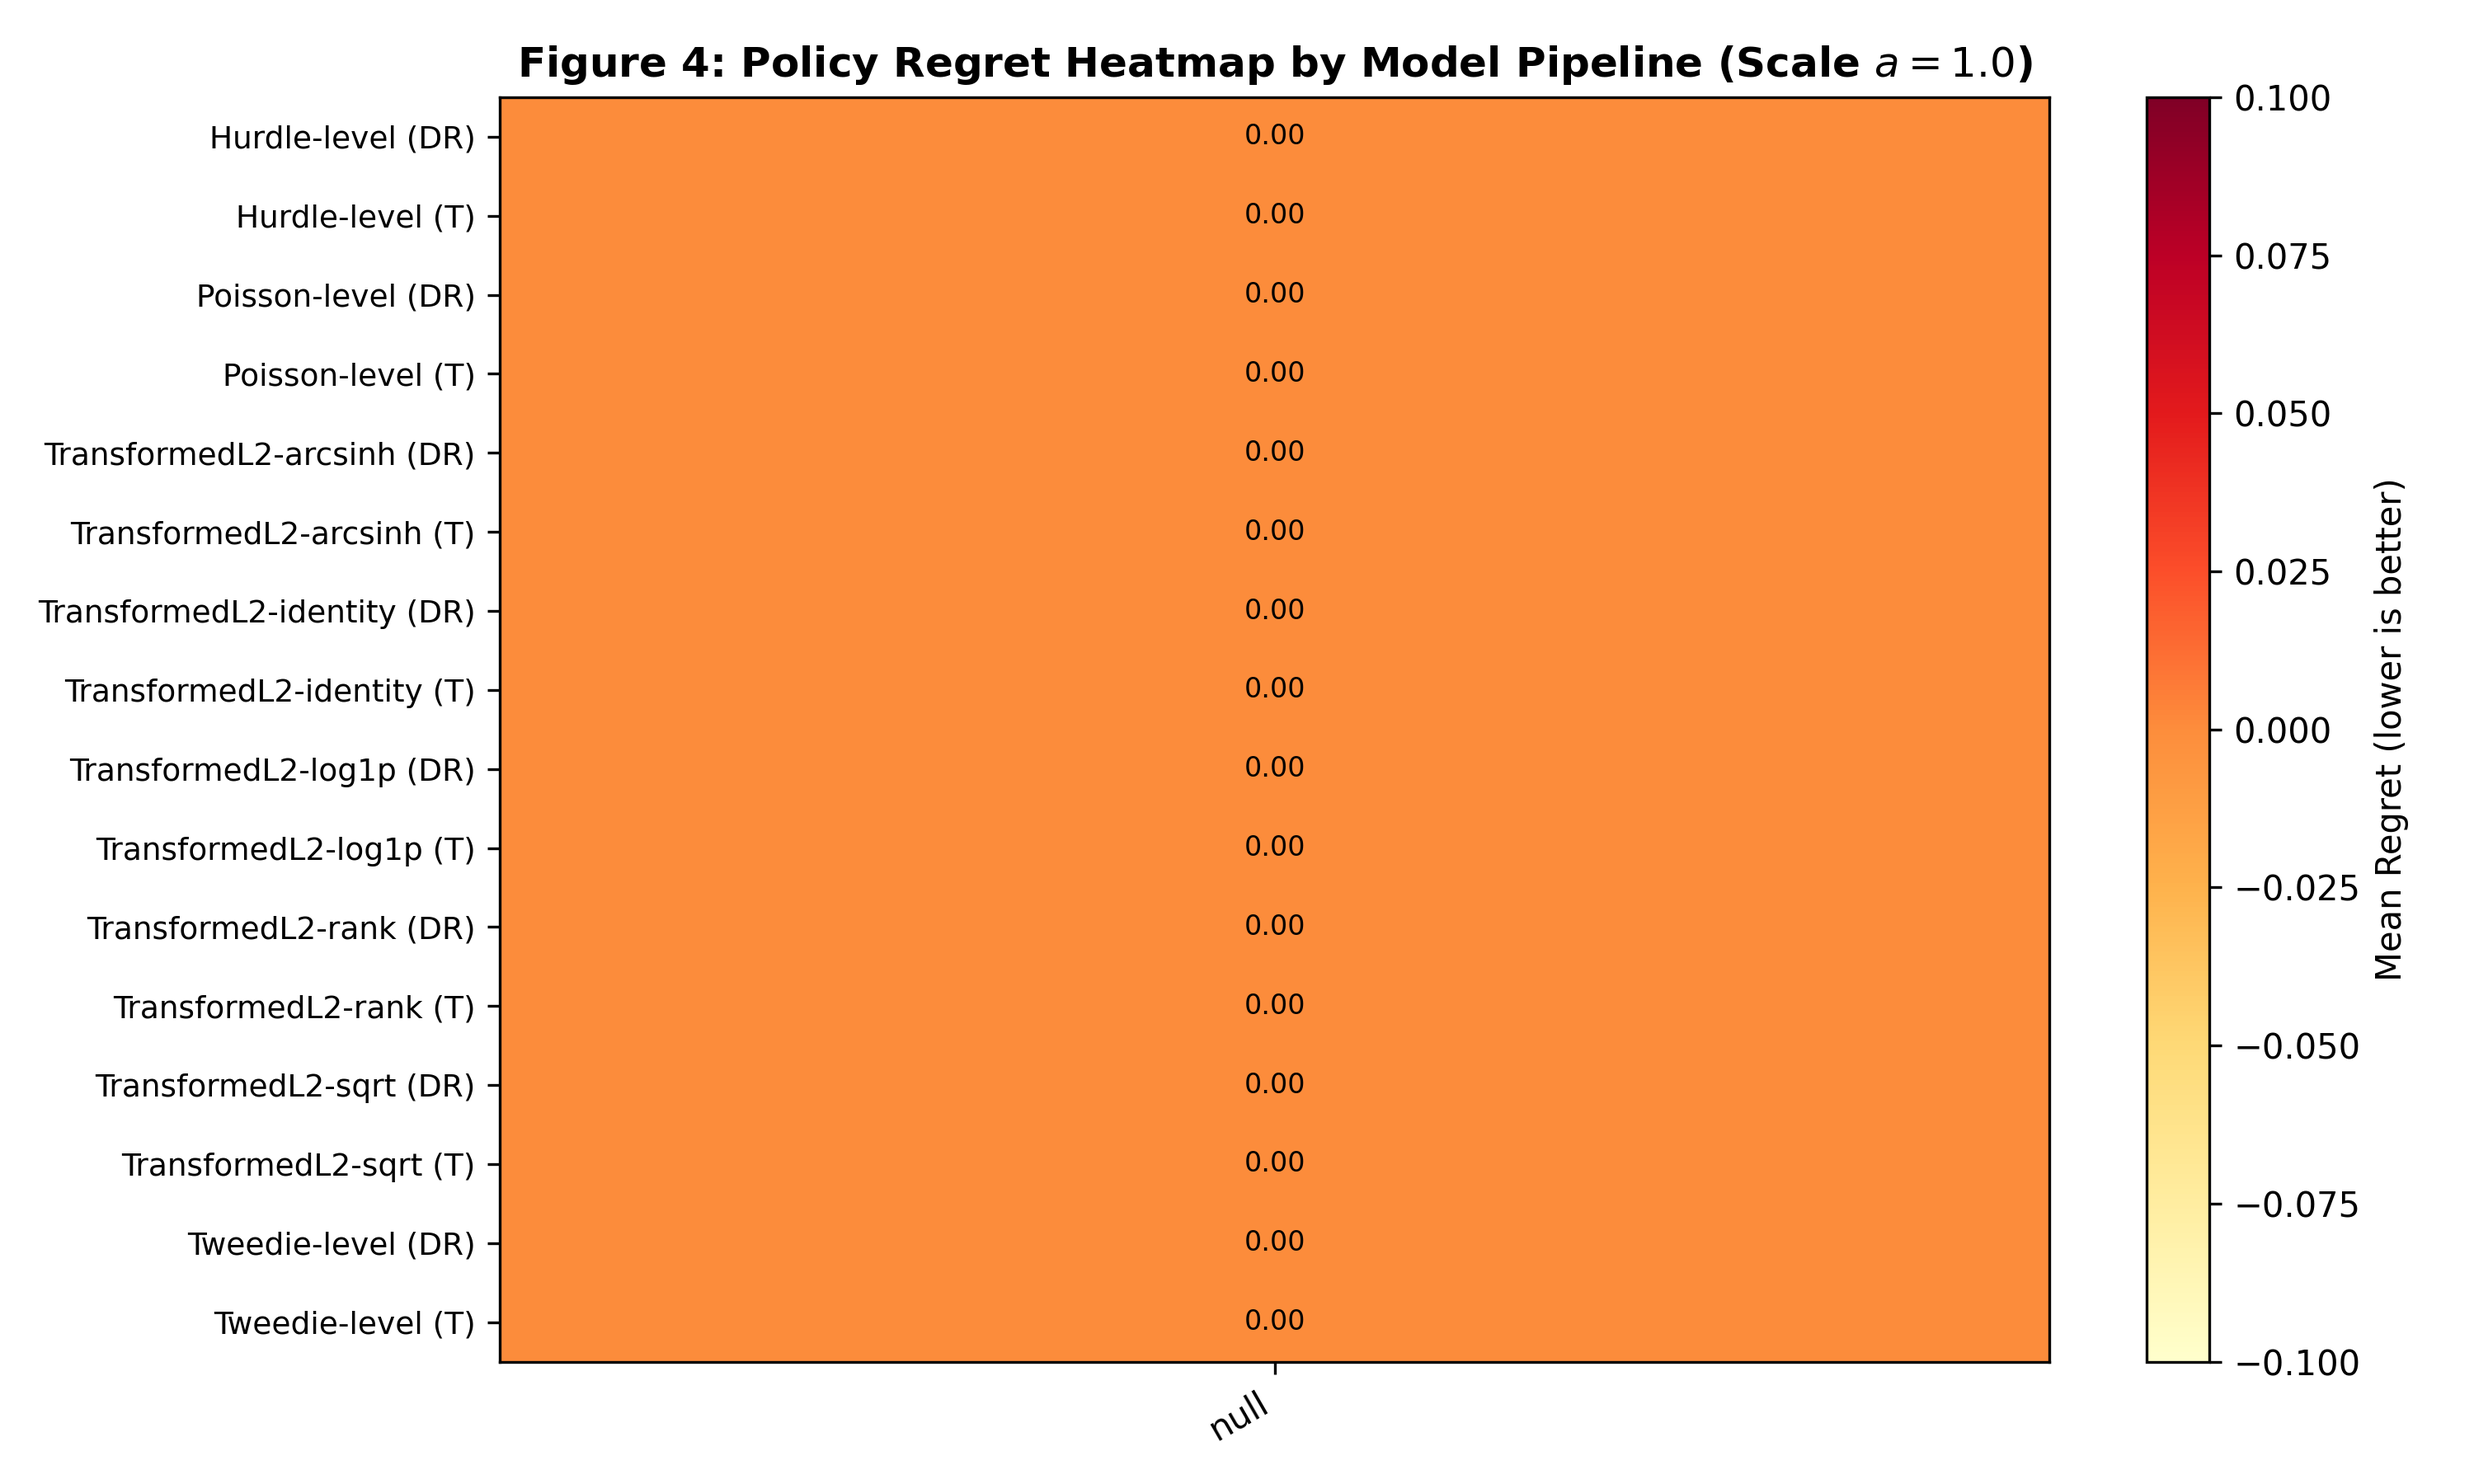
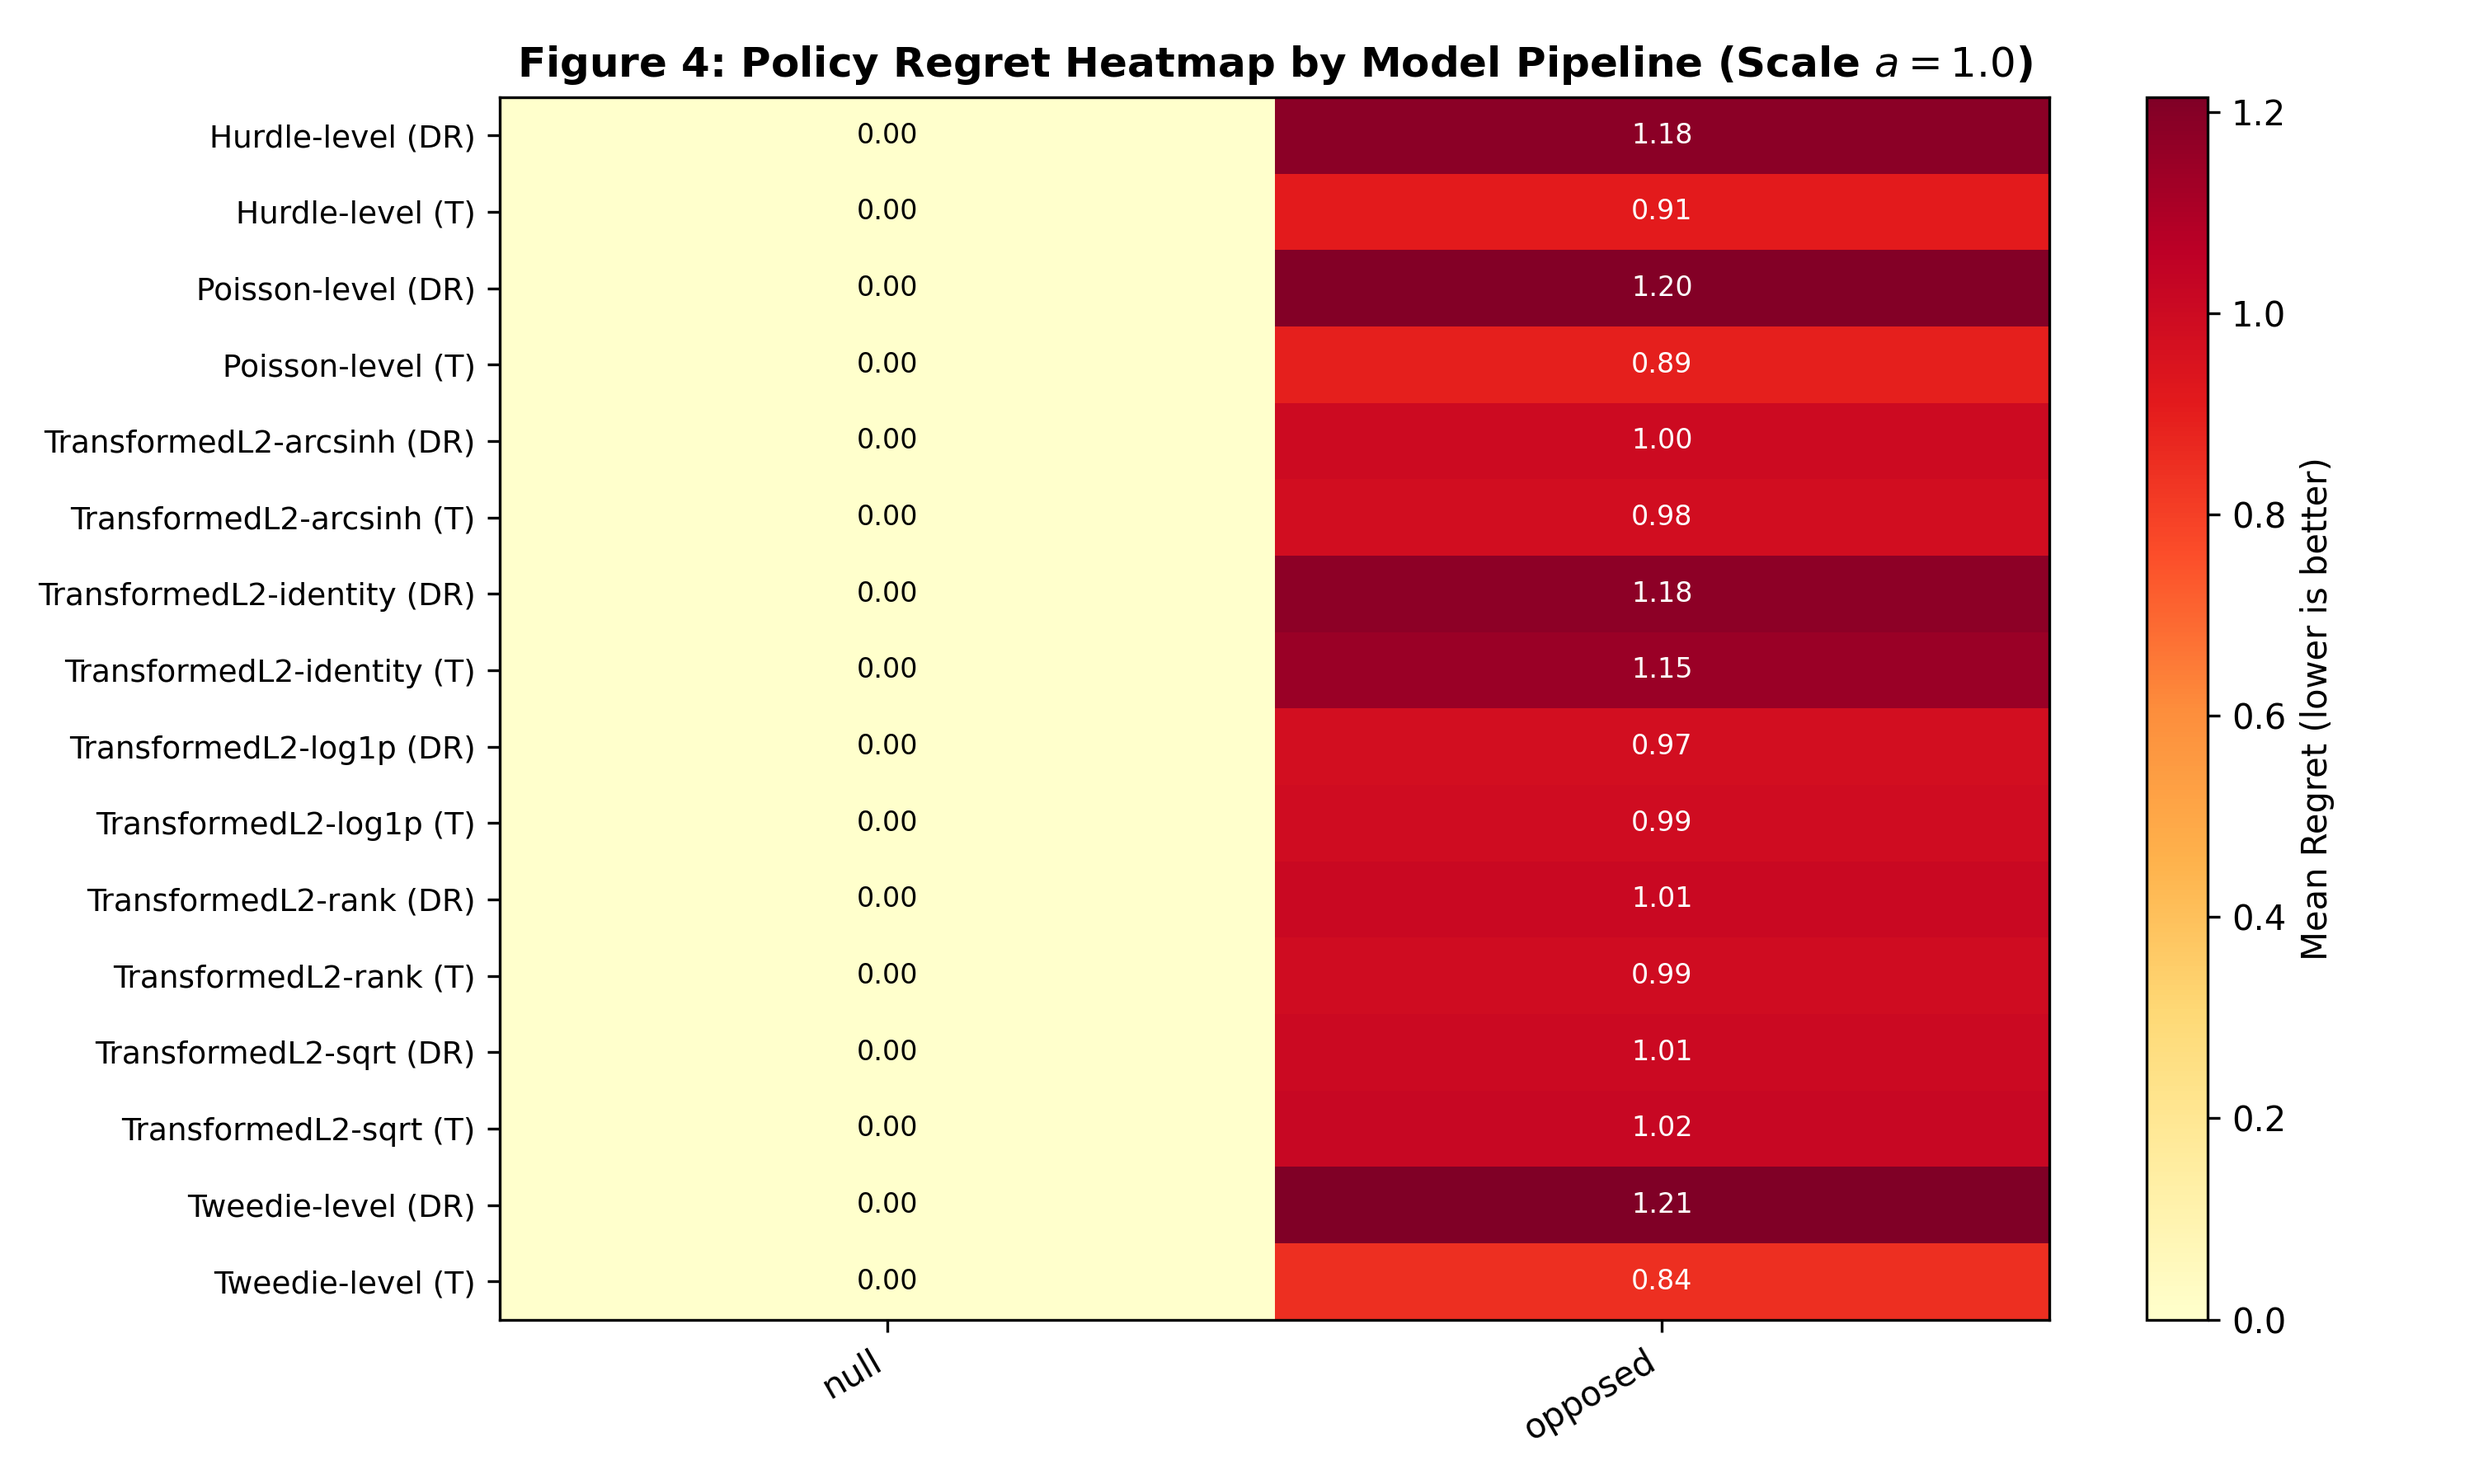
feat: complete Figure 3 policy value vs budget and link graphics in main.tex

diff --git a/src/analysis.py b/src/analysis.py
@@ -149,6 +149,54 @@ def plot_fig4_regret_heatmap(df, out_path):
     print(f"Saved Figure 4 to {out_path}")
 
 
+def plot_fig3_policy_value_vs_k(mens_csv, womens_csv, out_path, learner_choice="T"):
+    """Fig 3: Policy value vs targeting budget fraction k in Hillstrom field trials."""
+    if not (os.path.exists(mens_csv) and os.path.exists(womens_csv)):
+        print(f"Skipping Figure 3: Hillstrom CSV files not found.")
+        return
+
+    df_m = pd.read_csv(mens_csv)
+    df_w = pd.read_csv(womens_csv)
+
+    fig, axes = plt.subplots(1, 2, figsize=(14, 5.5), sharey=True)
+    k_cols = [("ipw_value_k10", 0.10), ("ipw_value_k20", 0.20),
+              ("ipw_value_k30", 0.30), ("ipw_value_k50", 0.50)]
+    k_vals = [kc[1] for kc in k_cols]
+
+    pipelines_to_show = [
+        ("Tweedie", "level", 1.0, "teal", "--", "s", "Tweedie ($a=1.0$)"),
+        ("Hurdle", "level", 1.0, "red", "-", "*", "Hurdle ($a=1.0$)"),
+        ("Poisson", "level", 1.0, "green", "-.", "v", "Poisson ($a=1.0$)"),
+        ("TransformedL2", "log1p", 1.0, "blue", "-", "o", r"$\log(1+y)$ ($a=1.0$ dollars)"),
+        ("TransformedL2", "log1p", 0.01, "cornflowerblue", ":", "^", r"$\log(1+ay)$ ($a=0.01$ hundreds)"),
+        ("TransformedL2", "sqrt", 1.0, "darkorange", "-.", "d", "Sqrt ($a=1.0$)"),
+    ]
+
+    for ax, df, title in zip(axes, [df_m, df_w], ["Men's E-Mail Campaign", "Women's E-Mail Campaign"]):
+        df_l = df[df["learner"] == learner_choice]
+        for fam, tr, a, col, ls, m, lbl in pipelines_to_show:
+            sub = df_l[(df_l["family"] == fam) & (df_l["transform"] == tr) & (np.isclose(df_l["scale"], a))]
+            if len(sub) == 0:
+                continue
+            vals = [sub[kc[0]].mean() for kc in k_cols]
+            ax.plot(k_vals, vals, label=lbl, color=col, linestyle=ls, marker=m, linewidth=2.0, markersize=7)
+
+        ax.set_title(f"{title} (Learner: {learner_choice})", fontsize=12, pad=10)
+        ax.set_xlabel(r"Targeting Budget Fraction $k$ (Top $k\%$ Treated)", fontsize=11)
+        ax.set_xticks(k_vals)
+        ax.set_xticklabels(["10%", "20%", "30%", "50%"])
+        ax.grid(True, linestyle="--", alpha=0.5)
+
+    axes[0].set_ylabel(r"IPW Policy Value (\$/customer)", fontsize=11)
+    axes[1].legend(bbox_to_anchor=(1.02, 1), loc="upper left", frameon=True, fontsize=10)
+    plt.suptitle("Figure 3: Policy Value vs. Targeting Budget $k$ under Unit Scalings in Hillstrom Trial",
+                 fontsize=13, fontweight="bold", y=1.02)
+    plt.tight_layout()
+    plt.savefig(out_path, dpi=300, bbox_inches="tight")
+    plt.close()
+    print(f"Saved Figure 3 to {out_path}")
+
+
 def run_analysis(results_dir, out_dir="figures"):
     os.makedirs(out_dir, exist_ok=True)
     df = aggregate(results_dir)
@@ -156,6 +204,15 @@ def run_analysis(results_dir, out_dir="figures"):
 
     # Fig 2
     plot_fig2_rank_stability(df, os.path.join(out_dir, "fig2_rank_stability.png"), scenario="opposed")
+
+    # Fig 3
+    base_dir = os.path.dirname(os.path.abspath(__file__))
+    m_csv = os.path.join(base_dir, "..", "results", "hillstrom_mens.csv")
+    w_csv = os.path.join(base_dir, "..", "results", "hillstrom_womens.csv")
+    if not (os.path.exists(m_csv) and os.path.exists(w_csv)):
+        m_csv = os.path.join(results_dir, "..", "hillstrom_mens.csv")
+        w_csv = os.path.join(results_dir, "..", "hillstrom_womens.csv")
+    plot_fig3_policy_value_vs_k(m_csv, w_csv, os.path.join(out_dir, "fig3_policy_value.png"))
 
     # Fig 4
     plot_fig4_regret_heatmap(df, os.path.join(out_dir, "fig4_regret_heatmap.png"))

diff --git a/report/main.tex b/report/main.tex
@@ -208,7 +208,7 @@ Learner & Formula $\hat{\tau}(x)$ & Nuisances & Cross-Fitting & Key Weakness on 
 % Figure 2 Placeholder
 \begin{figure}[htbp]
 \centering
-\fbox{\parbox{0.85\textwidth}{\centering \vspace{2cm} \textbf{[Figure 2: Empirical Rank Stability $\rho_{\text{vs\_a1}}$ vs. $\log_{10}(a)$ across families and learners with 95\% bootstrap CIs.]} \\ \textit{Owner: Member Q} \vspace{2cm}}}
+\includegraphics[width=0.88\textwidth]{../figures/fig2_rank_stability.png}
 \caption{\textbf{Empirical Rank Stability Across Unit Scales.} Ranking stability $\rho_{\text{vs\_a1}}$ relative to scale $a=1.0$ across 7 orders of magnitude ($a \in [0.001, 1000]$). Negative controls ($\sqrt{\cdot}$, rank) and count-aware models maintain $\rho=1.00$, while $\log(1+y)$ and $\text{arcsinh}$ collapse in the opposed scenario.}
 \label{fig:fig2_rank_stability}
 \end{figure}
@@ -216,7 +216,7 @@ Learner & Formula $\hat{\tau}(x)$ & Nuisances & Cross-Fitting & Key Weakness on 
 % Figure 3 Placeholder
 \begin{figure}[htbp]
 \centering
-\fbox{\parbox{0.85\textwidth}{\centering \vspace{2cm} \textbf{[Figure 3: Policy Value vs. Targeting Budget fraction $\budgetk \in [0.05, 0.50]$.]} \\ \textit{Owner: Member Q} \vspace{2cm}}}
+\includegraphics[width=0.98\textwidth]{../figures/fig3_policy_value.png}
 \caption{\textbf{Policy Value Across Targeting Budgets.} Realized true level effect of treating the top $\budgetk$-fraction of customers under each candidate pipeline.}
 \label{fig:fig3_policy_value}
 \end{figure}
@@ -224,7 +224,7 @@ Learner & Formula $\hat{\tau}(x)$ & Nuisances & Cross-Fitting & Key Weakness on 
 % Figure 4 Placeholder
 \begin{figure}[htbp]
 \centering
-\fbox{\parbox{0.85\textwidth}{\centering \vspace{2cm} \textbf{[Figure 4: Regret Heatmap by Model Family, Learner Architecture, and DGP Scenario.]} \\ \textit{Owner: Member Q} \vspace{2cm}}}
+\includegraphics[width=0.88\textwidth]{../figures/fig4_regret_heatmap.png}
 \caption{\textbf{Policy Regret Heatmap.} Mean regret ($\text{Value}_{\text{oracle}} - \text{Value}_{\text{policy}}$) at budget $\budgetk=0.20$ across all 6 simulation regimes.}
 \label{fig:fig4_regret_heatmap}
 \end{figure}
